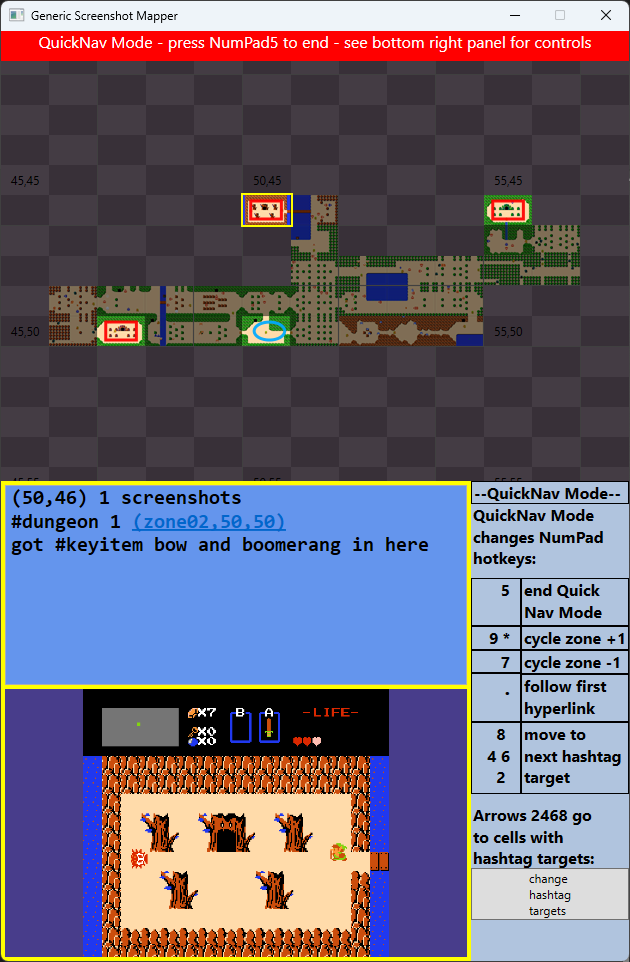
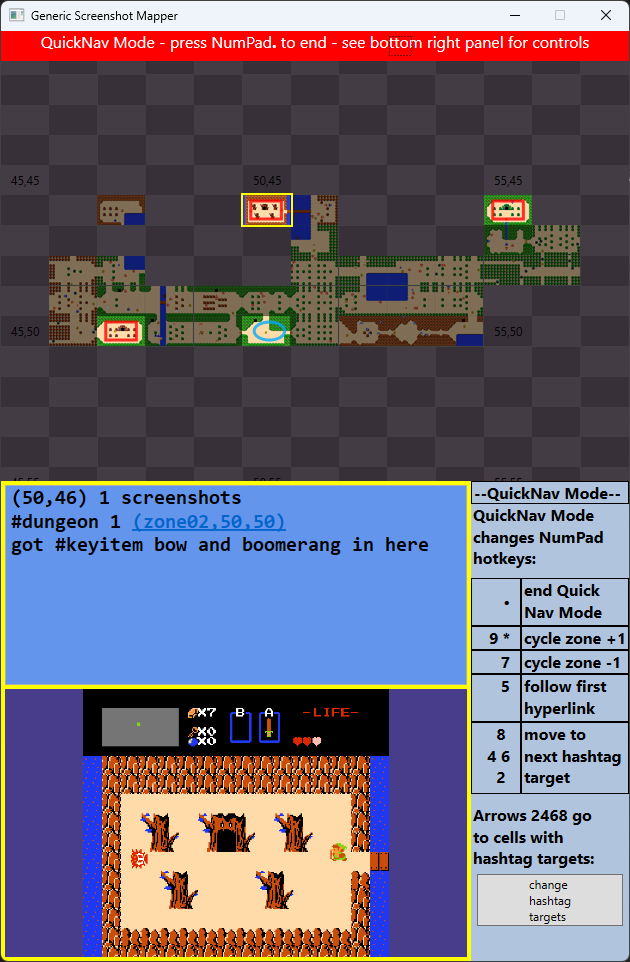
swap . and 5 in QuickNav mode for better UI, improve legibility of QuickNav

diff --git a/doc/navigation.md b/doc/navigation.md
@@ -62,12 +62,12 @@ and a number of NumPad key behaviors change in this mode.
 Upon activating QuickNav Mode, the app immediately zooms out far enough to see all the screenshots in the current zone, 
 centered in the grid.
 
-`NumPad 5` exits QuickNav Mode.
+`NumPad .` exits QuickNav Mode, that is, `NumPad .` toggles the mode.
 
 Keys `NumPad 7` and `NumPad 9` no longer zoom in QuickNav Mode, instead they cycle to the prior and next zones.
 (`NumPad *` preserves its behavior of cycling to the next zone.)
 
-`NumPad .` will follow the first hyperlink in the current cell's note, as though you clicked on it.  In the screenshot 
+`NumPad 5` will follow the first hyperlink in the current cell's note, as though you clicked on it.  In the screenshot 
 above, it would change to the zone containing the dungeon 1 map.  If a hyperlink was followed, QuickNav Mode exits.
 
 The 'arrow' keys `NumPad 2468` change functionality in QuickNav Mode.  They move the cursor to the next 'target' cell
@@ -81,11 +81,12 @@ Scenarios where QuickNav is useful:
 
 **Context peek**: \
 You're currently zoomed deep into the map, and want to peek at the zoomed-out map for context. \
-Press `NumPad .` to get the peek, and then press `NumPad 5` to return to the original view.
+Press `NumPad .` to get the peek, and then press `NumPad .` again to return to the original view.
 
 **Follow hyperlink**: \
 You're currently on a cell with a hyperlink (to elsewhere in the map, or another zone, or whatever). \
-Press `NumPad .` _twice_ to follow the hyperlink.  (Or you could click on it with the mouse.)
+Press `NumPad .5` to follow the hyperlink (chooses the first hyperlink in the Note, if there are multiple). 
+(Or you could click on it with the mouse.)
 
 **Fast travel or respawn**: \
 Some games have fast travel systems, which allow the player to move to a fixed set of faraway locations. \
@@ -99,4 +100,4 @@ keystrokes. (Or you could click on the new location with the mouse.)
 
 **Cycling backwards through many zones**: \
 If you have ten zones, and want to navigate from zone06 to zone05, it is quicker to press \
-`NumPad .75` than to press `Numpad *********`.  (Or you could mouse-navigate the zone dropdown menu.)
+`NumPad .7.` than to press `Numpad *********`.  (Or you could mouse-navigate the zone dropdown menu.)
